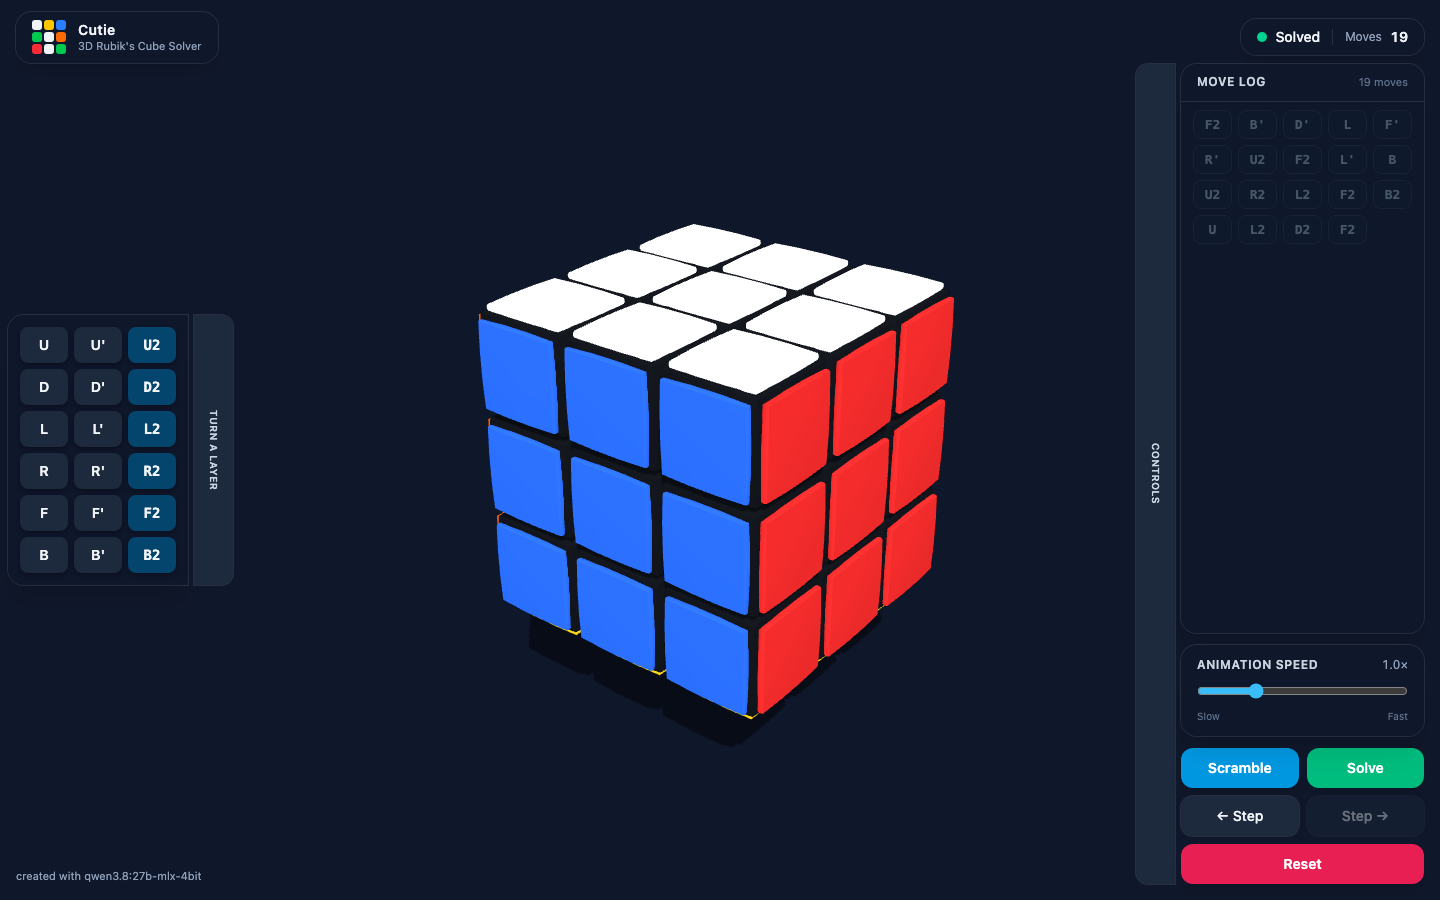
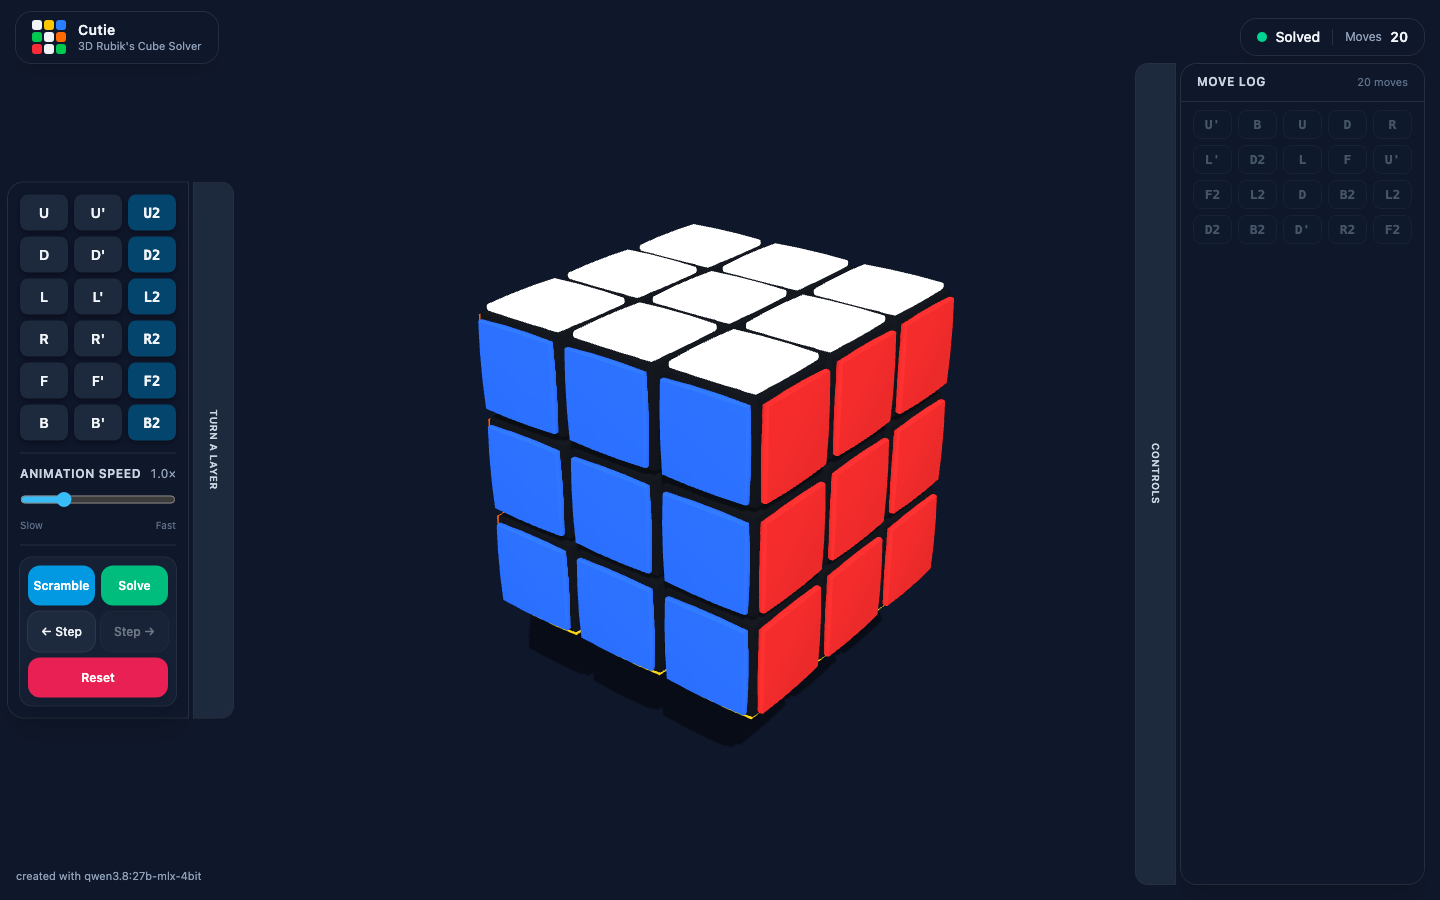
Move speed slider and action buttons into the face-button drawer (#13)
- Animation speed control and the 5 primary-action buttons (Scramble,
  Solve, Step back/forward, Reset) move from the right Controls drawer
  into the left 'Turn a layer' drawer, sliding in/out with it.
- Face drawer is now one tall bordered panel: face columns (unchanged
  width) -> divider -> speed -> divider -> 5 buttons in an inner
  bordered sub-panel, all matching the face panel's width.
- Controls drawer now holds only the Move Log.
- Panel capped at max-h-[95vh] with scroll so Reset stays reachable on
  short viewports; drawer child order, ids, aria and slide measurement
  untouched.
- README + as-built docs updated; official screenshots regenerated;
  scratch screenshots/ gitignored.

Changed region(s): [[0.0, 0.2178, 0.125, 0.7778], [0.8125, 0.8089, 1.0, 0.9956], [0.8125, 0.7156, 0.9688, 0.7778]]

diff --git a/index.html b/index.html
@@ -121,10 +121,10 @@
        sits in the gap between the two drawers. On a narrow screen it stays
        closed — only a vertical "Controls" tab peeks out on the panel's left edge
        (i.e. the screen's right edge). Click/tap the tab — or press 'c' — to slide
-       the panel out; do it again to slide it back.  The panel holds the Move Log,
-       the Animation-speed slider, and the five primary-action buttons.  The status
-       pill and move counter live in the header, so they stay visible even when
-       this drawer is closed. -->
+       the panel out; do it again to slide it back.  The panel now holds only the
+       Move Log (the Animation-speed slider and the five primary-action buttons
+       live in the left face-button drawer).  The status pill and move counter
+       live in the header, so they stay visible even when this drawer is closed. -->
   <aside class="fixed right-4 top-16 bottom-4 z-20 pointer-events-none">
     <div id="controls-drawer" class="drawer-unit-r drawer-closed flex items-stretch gap-1.5 h-full w-72 max-w-[320px]">
       <!-- The binder tab: always visible, toggles the drawer on click/tap. A real
@@ -151,26 +151,6 @@
             <div id="log-list" class="grid grid-cols-5 gap-1.5 content-start"></div>
           </div>
         </section>
-
-        <!-- Speed -->
-        <section class="rounded-2xl bg-slate-900/70 backdrop-blur-md ring-1 ring-white/10 shadow-xl px-4 py-3">
-          <div class="flex items-center justify-between mb-2">
-            <label for="speed" class="text-xs font-semibold uppercase tracking-wider text-slate-300">Animation speed</label>
-            <span id="speed-val" class="text-xs text-slate-400 tabular-nums">1.0×</span>
-          </div>
-          <input id="speed" type="range" min="0.3" max="3" step="0.1" value="1"
-                 class="w-full" />
-          <div class="flex justify-between text-[10px] text-slate-500 mt-1"><span>Slow</span><span>Fast</span></div>
-        </section>
-
-        <!-- Primary actions -->
-        <section class="grid grid-cols-2 gap-2">
-          <button id="btn-scramble" class="rounded-xl bg-sky-500/90 hover:bg-sky-500 text-white py-2.5 text-sm font-semibold shadow-lg transition">Scramble</button>
-          <button id="btn-solve" class="rounded-xl bg-emerald-500/90 hover:bg-emerald-500 text-white py-2.5 text-sm font-semibold shadow-lg transition">Solve</button>
-          <button id="btn-stepbwd" class="rounded-xl bg-slate-800 hover:bg-slate-700 ring-1 ring-white/10 py-2.5 text-sm font-medium transition disabled:opacity-40 disabled:cursor-not-allowed">← Step</button>
-          <button id="btn-stepfwd" class="rounded-xl bg-slate-800 hover:bg-slate-700 ring-1 ring-white/10 py-2.5 text-sm font-medium transition disabled:opacity-40 disabled:cursor-not-allowed">Step →</button>
-          <button id="btn-reset" class="col-span-2 rounded-xl bg-rose-500/90 hover:bg-rose-500 text-white py-2.5 text-sm font-semibold shadow-lg transition">Reset</button>
-        </section>
       </div>
     </div>
   </aside>
@@ -180,19 +160,42 @@
        (the layer drawer + the cube + the controls panel all fit); on a narrow
        screen it stays closed and only a vertical "Turn a layer" tab peeks out on
        the panel's right edge. Click/tap the tab to slide the panel out; click it
-       again (or press 't') to slide it back.  Three columns: clockwise
-       quarter-turns (U…B), counter-clockwise quarter-turns (U'…B'), and 180°
-       half-turns (U2…B2).  Each button is one fixed move, so a tap always does
-       exactly one thing with no modifier — important on touch devices (e.g. iPad)
-       that have no Shift key. -->
+       again (or press 't') to slide it back.  One tall bordered panel stacks,
+       top to bottom: three face-button columns (clockwise quarter-turns U…B,
+       counter-clockwise quarter-turns U'…B', and 180° half-turns U2…B2), the
+       Animation-speed slider, and the five primary-action buttons (Scramble,
+       Solve, ← Step, Step →, Reset) in an inner bordered sub-panel.  Each face
+       button is one fixed move, so a tap always does exactly one thing with no
+       modifier — important on touch devices (e.g. iPad) that have no Shift key. -->
   <div class="fixed left-2 top-1/2 -translate-y-1/2 z-20 pointer-events-none">
     <div id="face-drawer" class="drawer-unit drawer-closed flex items-stretch gap-1.5">
-      <!-- The button panel: slides left to hide; the tab sits to its right. -->
-      <div class="pointer-events-auto rounded-l-2xl bg-slate-900/70 backdrop-blur-md ring-1 ring-white/10 shadow-xl p-3">
+      <!-- The button panel: slides left to hide; the tab sits to its right. One
+           bordered card stacks the face columns, the speed slider, and the
+           action-button sub-panel; the card's width stays driven by the face
+           columns (the lower sections stretch to fill the inner width). -->
+      <div class="pointer-events-auto rounded-l-2xl bg-slate-900/70 backdrop-blur-md ring-1 ring-white/10 shadow-xl p-3 max-h-[95vh] overflow-y-auto scroll-thin">
         <div class="flex items-start gap-1.5">
           <div id="face-buttons" class="flex flex-col gap-1.5"></div>
           <div id="prime-buttons" class="flex flex-col gap-1.5"></div>
           <div id="half-buttons" class="flex flex-col gap-1.5"></div>
+        </div>
+        <div class="mt-3 pt-3 border-t border-white/10">
+          <div class="flex items-center justify-between mb-2">
+            <label for="speed" class="text-xs font-semibold uppercase tracking-wider text-slate-300">Animation speed</label>
+            <span id="speed-val" class="text-xs text-slate-400 tabular-nums">1.0×</span>
+          </div>
+          <input id="speed" type="range" min="0.3" max="3" step="0.1" value="1"
+                 class="w-full" />
+          <div class="flex justify-between text-[10px] text-slate-500 mt-1"><span>Slow</span><span>Fast</span></div>
+        </div>
+        <div class="mt-3 pt-3 border-t border-white/10">
+          <div class="rounded-xl ring-1 ring-white/10 bg-slate-800/50 p-2 grid grid-cols-2 gap-1.5">
+            <button id="btn-scramble" class="rounded-xl bg-sky-500/90 hover:bg-sky-500 text-white py-2 min-h-10 text-xs font-semibold shadow-lg transition">Scramble</button>
+            <button id="btn-solve" class="rounded-xl bg-emerald-500/90 hover:bg-emerald-500 text-white py-2 min-h-10 text-xs font-semibold shadow-lg transition">Solve</button>
+            <button id="btn-stepbwd" class="rounded-xl bg-slate-800 hover:bg-slate-700 ring-1 ring-white/10 py-2 min-h-10 text-xs font-medium transition disabled:opacity-40 disabled:cursor-not-allowed">← Step</button>
+            <button id="btn-stepfwd" class="rounded-xl bg-slate-800 hover:bg-slate-700 ring-1 ring-white/10 py-2 min-h-10 text-xs font-medium transition disabled:opacity-40 disabled:cursor-not-allowed">Step →</button>
+            <button id="btn-reset" class="col-span-2 rounded-xl bg-rose-500/90 hover:bg-rose-500 text-white py-2 min-h-10 text-xs font-semibold shadow-lg transition">Reset</button>
+          </div>
         </div>
       </div>
       <!-- The binder tab: always visible, toggles the drawer on click/tap. A real

diff --git a/README.md b/README.md
@@ -68,13 +68,13 @@ The cube itself is **view-only** — turns come from the **face buttons** and
   counter.
 
 ### Controls drawer (right edge) — a slide-out drawer
-The Move Log, speed slider, and primary-action buttons live in a panel that
-**hides behind a tab** on the right edge — the mirror of the face-button drawer
-on the left. On a wide screen the app opens **both** drawers at startup (cube in
-the gap between them); on a narrow one they start closed, and either drawer
-auto-closes when a Scramble/Solve would slide it onto the cube. The tab is a
-vertical **"Controls"** handle on the panel's left edge; **`C`** toggles it from
-the keyboard (Tab drives focus navigation, so it's not used here).
+The Move Log lives in a panel that **hides behind a tab** on the right edge —
+the mirror of the face-button drawer on the left. On a wide screen the app opens
+**both** drawers at startup (cube in the gap between them); on a narrow one they
+start closed, and either drawer auto-closes when a Scramble/Solve would slide it
+onto the cube. The tab is a vertical **"Controls"** handle on the panel's left
+edge; **`C`** toggles it from the keyboard (Tab drives focus navigation, so
+it's not used here).
 - **Move Log** — the executed moves shown as a **grid of move-buttons, 5 per
   row** (each button is one token like `R`, `U'`, `F2`), styled to match the
   face buttons. As a scramble or solve animates, the button for the move being
@@ -83,23 +83,9 @@ the keyboard (Tab drives focus navigation, so it's not used here).
   total moves is shown at
   the top of the card, and the panel **scrolls** when the grid is taller than the
   panel.
-- **Animation speed** — a slider (0.3×–3×) that controls how fast every
-  scramble/solve/turn animates.
-- **Primary actions** (bottom of panel):
-  | Button | Action |
-  | --- | --- |
-  | **Scramble** | Apply a random scramble with animation (clears the log first). |
-  | **Solve** | Clear the log, then compute + animate the solution for the cube as it is now. |
-  | **← Step** | Step the current position back one move (undo, keeping it in the log to replay). Disabled at the start of the log — nothing applied yet to undo. |
-  | **Step →** | Advance the current step one move (replay the next move in the log). Disabled at the end of the log — nothing left to replay. |
-  | **Reset** | Instantly return the cube to the solved state. |
 
-  The two step buttons **disable themselves** when there is no move in that
-  direction: **← Step** greys out at the start of the log (nothing applied to
-  undo) and **Step →** greys out at the end (nothing future to replay). In the
-  middle of the log both are live. The flags refresh only when a move finishes
-  and the sequence settles, so a Scramble/Solve animating through many moves
-  never flickers the buttons on screen.
+  (The speed slider and the primary-action buttons live in the face-button
+  drawer on the left — see below.)
 
 ### Face buttons (left edge) — a slide-out drawer
 The face buttons live in a panel that **hides behind a tab** on the left edge,
@@ -116,7 +102,9 @@ opened:
 - **`T`** toggles the same drawer from the keyboard. (Tab is not used: it
   drives browser focus navigation, and the primary action buttons are focusable.)
 
-When open, the panel shows three vertical columns of buttons. Each button is
+When open, the panel is one tall card that stacks, top to bottom: the three
+vertical columns of face buttons, the animation-speed slider, and the five
+primary-action buttons in an inner bordered sub-panel. Each face button is
 **one fixed move**, so a tap always does exactly one thing with no modifier —
 this matters on touch devices (e.g. iPad) that have no Shift key. Each button
 turns its layer on the live cube the moment it is **released**:
@@ -127,6 +115,28 @@ turns its layer on the live cube the moment it is **released**:
 
 Labels are fixed (a 180° has no direction, and the prime is its own button), so
 there is no modifier to watch and nothing to repaint.
+
+At the bottom of the panel, below the face columns, sit the slider and the
+action buttons:
+
+- **Animation speed** — a slider (0.3×–3×) that controls how fast every
+  scramble/solve/turn animates. It sits between the face columns and the
+  action buttons.
+- **Primary actions** (in an inner bordered sub-panel):
+  | Button | Action |
+  | --- | --- |
+  | **Scramble** | Apply a random scramble with animation (clears the log first). |
+  | **Solve** | Clear the log, then compute + animate the solution for the cube as it is now. |
+  | **← Step** | Step the current position back one move (undo, keeping it in the log to replay). Disabled at the start of the log — nothing applied yet to undo. |
+  | **Step →** | Advance the current step one move (replay the next move in the log). Disabled at the end of the log — nothing left to replay. |
+  | **Reset** | Instantly return the cube to the solved state. |
+
+  The two step buttons **disable themselves** when there is no move in that
+  direction: **← Step** greys out at the start of the log (nothing applied to
+  undo) and **Step →** greys out at the end (nothing future to replay). In the
+  middle of the log both are live. The flags refresh only when a move finishes
+  and the sequence settles, so a Scramble/Solve animating through many moves
+  never flickers the buttons on screen.
 
 The turns fire on **pointer release**, not the browser's synthesized `click`
 event: Safari can drop that event after a tap, so triggering on `pointerup`

diff --git a/docs/as-built/cutie_current.md b/docs/as-built/cutie_current.md
@@ -93,9 +93,14 @@ slides in from the left when opened:
 - **Tab is not the shortcut**: it drives browser focus navigation and the primary
   action buttons are focusable, so `T` is used instead.
 
-When open, the panel shows three vertical columns: each button is **one fixed
-move**, so a tap always does exactly one thing with no modifier — important on
-touch devices (e.g. iPad) that have no Shift key:
+When open, the panel is **one tall bordered card** that stacks (top to bottom)
+the three face-button columns, a divider, the **Animation-speed slider** (see
+below), another divider, and the five **primary-action buttons** (Scramble /
+Solve / ← Step / Step → / Reset) in an **inner bordered sub-panel**. The card's
+width stays driven by the face columns; the slider and the button sub-panel
+stretch to fill the same inner width. Each face button is **one fixed move**, so a
+tap always does exactly one thing with no modifier — important on touch devices
+(e.g. iPad) that have no Shift key:
 
 - **Left — clockwise quarter turns (`U D L R F B`)**: each is a single 90° turn.
 - **Middle — counter-clockwise quarter turns (`U' D' L' R' F' B'`)**: each is a
@@ -115,7 +120,11 @@ The face **keys** (`U D L R F B`, `Shift` + a face key for the prime, `Alt` /
 `Option` + a face key for the 180° half turn) still work as keyboard shortcuts
 on desktop.
 
-### Primary actions (right panel, bottom)
+### Primary actions (left panel, in the face-button drawer)
+The five primary-action buttons live at the bottom of the left face-button
+drawer, in an inner bordered sub-panel (2-column grid; Reset spans both
+columns):
+
 | Button | Action |
 |--------|--------|
 | **Scramble** | Random 18–35 move scramble, no two consecutive same-face, animated. Clears the log first. |
@@ -165,6 +174,8 @@ buttons don't flicker while a sequence animates (see the *Cursor model* note in
   state and refresh just once at the end — no flicker.
 
 ### Animation speed slider
+- Lives in the **left face-button drawer**, between the face columns and the
+  action-button sub-panel (it moved there from the right controls drawer).
 - Range slider (0.3–3, step 0.1, default 1.0) with "Slow"/"Fast" labels.
   Displayed as e.g. `1.0×`.
 
@@ -186,11 +197,11 @@ buttons don't flicker while a sequence animates (see the *Cursor model* note in
 
 ### Controls drawer (right edge)
 - A **slide-out drawer** — the mirror of the face-button drawer, on the right. It
-  holds the Move Log, the speed slider, and the primary-action buttons. It
-  **opens at startup on a wide screen and stays closed on a narrow one**, and it
-  **auto-closes** (independently of the other drawer) when a Scramble/Solve would
-  slide it onto the cube. Tapping its vertical "Controls" tab (or pressing `C`)
-  toggles it.
+  holds **only the Move Log** (the speed slider and the primary-action buttons
+  live in the left face-button drawer, see §4). It **opens at startup on a wide
+  screen and stays closed on a narrow one**, and it **auto-closes** (independently
+  of the other drawer) when a Scramble/Solve would slide it onto the cube.
+  Tapping its vertical "Controls" tab (or pressing `C`) toggles it.
 - **Move Log**: grid of move-buttons (5 per row), one per move token. Three
   visual states driven by the **cursor** — **past** (index `< cursor`, faint
   done look), **pending** (index `>= cursor`, dim), **current** (the move
@@ -198,8 +209,9 @@ buttons don't flicker while a sequence animates (see the *Cursor model* note in
   the current button auto-scrolls into view. Empty state shows a placeholder
   message. The "Moves" counter shows the number of moves actually applied
   (the cursor).
-- **Animation speed**, and **Primary actions** sections
-  (described in §4).
+- The Move Log section is `flex-1`, so it fills the panel's full height on its
+  own. The speed slider and primary-action sections that formerly lived here are
+described in §4 (they now live in the face-button drawer).
 
 ### Face buttons panel (left edge)
 - A **slide-out drawer**: it **opens at startup on a wide screen and stays closed
@@ -209,8 +221,10 @@ buttons don't flicker while a sequence animates (see the *Cursor model* note in
   the tab (or pressing `T`) slides the panel out; tapping again slides it back. The
   tab is the rightmost child, so hiding the panel (sliding it left) leaves the tab
   on screen.
-- Glassy panel, three button columns (clockwise quarter, counter-clockwise
-  quarter, half). No top label — the tab *is* the "Turn a layer" label.
+- Glassy panel: ONE tall bordered card stacking the three button columns
+  (clockwise quarter, counter-clockwise quarter, half), the Animation-speed
+  slider, and the five action buttons in an inner bordered sub-panel. No top
+  label — the tab *is* the "Turn a layer" label.
 
 ### Misc
 - **Drag-to-rotate hint**: a small pill, centered horizontally near the top
